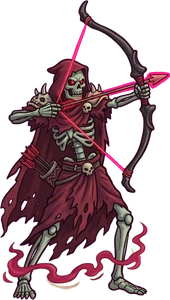
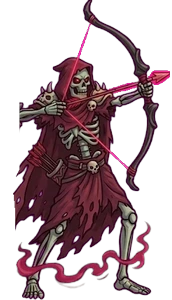
Hayalet okçular 5 pozla atar (bekleme, ok takma, yarım ve tam germe, bırakma; Gemini, okcu_poz_isle.py ortak ölçek ve ayak hizası)

diff --git a/sinir-kalesi/js/game.js b/sinir-kalesi/js/game.js
@@ -5455,7 +5455,8 @@ const XBOW_T = {
 const MEN = {
   base: { pre: 'unit_xbow', pose: '_aim', aim: 0.3, kick: 0.16, hold: 0.55, tip: [0.99, 0.24], n: (t) => t.lvl + 1, col: '140,255,150', spd: 720, arc: 0.06 },
   fan:  { pre: 'unit_ghostxbow', pose: '_aim', aim: 0.46, kick: 0.3, hold: 0.85, tip: [0.99, 0.24], n: () => 2, col: '255,80,90', spd: 820, arc: 0.035, heavy: true },
-  bow:  { pre: 'unit_ghostarcher', pose: '_draw', aim: 0.4, kick: 0.12, hold: 0.32, tip: [0.95, 0.27], n: () => 3, col: '255,90,130', spd: 420, arc: 0.26, bow: true },
+  bow:  { pre: 'unit_ghostarcher', pose: '_draw', aim: 0.42, kick: 0.12, hold: 0.32, tip: [0.98, 0.237], n: () => 3, col: '255,90,130', spd: 420, arc: 0.26, bow: true,
+    seq: [[0.3, '_nock'], [0.62, '_half'], [1, '_draw']], rel: 0.26 }, // yay germe kareleri (Gemini 5 poz, varliklar/okcu_poz_isle.py): ok takma → yarım → tam germe; bırakınca _rel
 };
 const menOf = (t) => MEN[t.spec === 'fan' || t.spec === 'bow' ? t.spec : 'base'];
 const xbowCfg = (t) => XBOW_T[t.spec ? 'tower_archer_fan' : xbowTowerName(t.lvl)];
@@ -5530,15 +5531,17 @@ function drawXbowMen(t, ts, redraw) {
   for (const a of A.slice().sort((p, q) => p.d - q.d)) { // arkadaki önce
     const f = xbowFoot(t, ts, a), up = a.kickT > -M.hold;
     if (ghost) { ctx.save(); ctx.globalCompositeOperation = 'lighter'; glow(ctx, f.x, f.y - h * 0.15, h * 0.45, '255,60,80', 0.2 + (up ? 0.12 : 0)); ctx.restore(); }
-    const im = spr(up ? pre + M.pose : pre); if (!im) continue;
+    const rise = a.aimT > 0 ? (1 - a.aimT / M.aim) : 1; // nişana kalkış / yay germe (0..1)
+    let pose = up ? M.pose : '';
+    if (M.seq && up) pose = a.aimT > 0 ? M.seq.find(q => rise <= q[0])[1] : M.kick - a.kickT < M.rel ? '_rel' : ''; // okçu: germe sırası, bırakınca kısa bir an _rel, sonra yay iner
+    const im = spr(pre + pose) || spr(up ? pre + M.pose : pre); if (!im) continue;
     ctx.save(); ctx.translate(f.x, f.y); ctx.scale(a.face, 1);
     const bob = a.walking ? Math.abs(Math.sin(a.anim * 9)) * h * 0.04 : Math.sin(a.anim * 2) * h * 0.012; // yürürken sekme, dururken nefes
-    const rise = a.aimT > 0 ? (1 - a.aimT / M.aim) : 1; // nişana kalkış / yay germe (0..1)
     const kk = a.aimT <= 0 && a.kickT > 0 ? a.kickT / M.kick : 0; // bırakınca geri tepme (geri ve yukarı)
     let lean = a.walking ? Math.sin(a.anim * 9) * 0.04 : up ? (1 - rise) * 0.12 - kk * 0.1 : 0, sx = 1, sy = 1, back = 0;
-    if (M.bow && up) { // okçu: yay gerilirken gövde geriye yaslanır ve hafifçe gerilir, bırakınca ileri sekip yerine oturur
-      const tense = a.aimT > 0 ? rise * rise : 0;
-      lean = (1 - rise) * 0.1 - tense * 0.05 + kk * 0.06; back = tense * h * 0.025 - kk * h * 0.03; sx = 1 - tense * 0.025; sy = 1 + tense * 0.015;
+    if (M.bow && up) { // okçu: pozlar germeyi gösterir; üstüne tam gerilimde hafif titreme, bırakınca küçük ileri sekme
+      const tense = a.aimT > 0 ? Math.max(0, rise - 0.62) / 0.38 : 0;
+      lean = -tense * 0.02 + kk * 0.03; back = Math.sin(a.anim * 40) * tense * h * 0.004 - kk * h * 0.02;
     }
     if (M.heavy && up && kk > 0) back = h * 0.11 * kk; // ağır arbalet sert teper
     ctx.translate(-h * 0.07 * kk * (M.bow ? 0 : 1) - back, -bob); ctx.rotate(lean); ctx.scale(sx, sy); drawSprite(ctx, im, 0, 0, h * im.width / im.height);

diff --git a/sinir-kalesi/index.html b/sinir-kalesi/index.html
@@ -11,7 +11,7 @@
 <canvas id="game" aria-label="Sınır Kalesi oyun alanı"></canvas>
 <script>
   // Sürüm damgası: her yayında artırılır; tarayıcı eski önbellek kopyasını kullanmaz (js ve görseller).
-  window.SURUM = '285';
+  window.SURUM = '286';
   // dil: kayıtlı seçim ya da cihaz dili; tr/en dışındakiler için çeviri sözlüğü dil.js'ten önce yüklenir
   window.__dilYukle = (function () {
     var l = null; try { l = localStorage.getItem('sinirKalesi.lang'); } catch (e) {}

diff --git a/sinir-kalesi/yayin.html b/sinir-kalesi/yayin.html
@@ -11,7 +11,7 @@
 <canvas id="game" aria-label="Sınır Kalesi oyun alanı"></canvas>
 <script>
   // Sürüm damgası: her yayında artırılır; tarayıcı eski önbellek kopyasını kullanmaz (js ve görseller).
-  window.SURUM = '285';
+  window.SURUM = '286';
   // dil: kayıtlı seçim ya da cihaz dili; tr/en dışındakiler için çeviri sözlüğü dil.js'ten önce yüklenir
   window.__dilYukle = (function () {
     var l = null; try { l = localStorage.getItem('sinirKalesi.lang'); } catch (e) {}

diff --git a/varliklar/okcu_poz_isle.py b/varliklar/okcu_poz_isle.py
@@ -1,0 +1,48 @@
+"""Hayalet okçu poz sayfası (Gemini, 5 poz yan yana, magenta zemin; varliklar/ham/nm_hayalet_okcu_pozlari.webp) -> oyun kareleri.
+Pozlar yay/kirişle birbirine değdiği için elle ölçülmüş kesim çizgileriyle ayrılır (CUTS: her sınır için (x, y) kırık çizgisi).
+Hepsi ortak ölçekle 300 px boya, ayak ortası tuvalin ortasına gelecek şekilde aynı tuvale konur (kareler arasında karakter kaymaz).
+Çıktı: img/unit_ghostarcher (1 bekleme), _nock (2 ok takma), _half (3 yarım germe), _draw (4 tam germe), _rel (5 bırakma) + meta.json + manifest."""
+import json, os, sys
+import numpy as np
+from PIL import Image, ImageDraw
+from scipy import ndimage
+H0 = os.path.dirname(os.path.abspath(__file__)); sys.path.insert(0, H0)
+from anim_isle import remove_magenta
+IMG = os.path.join(H0, '..', 'sinir-kalesi', 'img')
+src = np.array(Image.open(os.path.join(H0, 'ham', 'nm_hayalet_okcu_pozlari.webp')).convert('RGB'))
+A = remove_magenta(src); Hh, Ww = A.shape[:2]
+CUTS = [[(226, 0), (226, 262), (204, 275), (204, 434)],
+        [(402, 0), (402, 190), (409, 210), (409, 262), (398, 290), (396, 434)],
+        [(617, 0), (617, 125), (592, 140), (592, 240), (582, 262), (586, 300), (586, 434)],
+        [(806, 0), (806, 434)]]
+def region(i):
+    m = Image.new('L', (Ww, Hh), 0); d = ImageDraw.Draw(m)
+    left = CUTS[i - 1] if i > 0 else [(0, 0), (0, Hh)]; right = CUTS[i] if i < len(CUTS) else [(Ww, 0), (Ww, Hh)]
+    d.polygon(left + right[::-1], fill=255); return np.array(m) > 0
+NAMES = ['unit_ghostarcher', 'unit_ghostarcher_nock', 'unit_ghostarcher_half', 'unit_ghostarcher_draw', 'unit_ghostarcher_rel']
+polys, boxes = [], []
+for i in range(5):
+    P = A.copy(); P[~region(i), 3] = 0
+    a = P[..., 3] > 40; lab, n = ndimage.label(a); sz = ndimage.sum(a, lab, range(1, n + 1))
+    main = lab == (int(np.argmax(sz)) + 1); near = ndimage.binary_dilation(main, iterations=3)  # komşu pozdan kalan kopuk kırıntılar atılır
+    keep = np.isin(lab, [k + 1 for k in range(n) if (near & (lab == k + 1)).any()]); P[~ndimage.binary_dilation(keep, iterations=2), 3] = 0
+    ys, xs = np.nonzero(P[..., 3] > 40); y0, y1, x0, x1 = ys.min(), ys.max() + 1, xs.min(), xs.max() + 1
+    feet = (P[y1 - 40:y1, :, 3] > 100) & (P[y1 - 40:y1, :, 1] > 110);  # kemik ayaklar (kızıl sis değil)
+    fx = np.nonzero(feet.any(0))[0]; foot = (fx.min() + fx.max()) / 2
+    polys.append(P); boxes.append((x0, y0, x1, y1, foot))
+S = 300 / max(b[3] - b[1] for b in boxes)  # en uzun poz 300 px
+half = max(max(b[4] - b[0], b[2] - b[4]) for b in boxes)
+cw, ch = int(np.ceil(2 * half * S)) + 4, 300
+meta = json.load(open(os.path.join(IMG, 'meta.json'))); mf = json.load(open(os.path.join(IMG, 'manifest.json')))
+for P, (x0, y0, x1, y1, foot), nm in zip(polys, boxes, NAMES):
+    crop = Image.fromarray(P[y0:y1, x0:x1]); w, h = round((x1 - x0) * S), round((y1 - y0) * S)
+    crop = crop.resize((w, h), Image.LANCZOS)
+    can = Image.new('RGBA', (cw, ch), (0, 0, 0, 0)); can.paste(crop, (round(cw / 2 - (foot - x0) * S), ch - h), crop)
+    can.save(os.path.join(IMG, nm + '.webp'), 'WEBP', quality=92); meta[nm] = [cw, ch]
+    if nm + '.webp' not in mf: mf.append(nm + '.webp')
+    print(nm, (x0, y0, x1, y1), round(foot))
+json.dump(meta, open(os.path.join(IMG, 'meta.json'), 'w'), separators=(',', ':')); json.dump(mf, open(os.path.join(IMG, 'manifest.json'), 'w'), indent=0)
+# tam germe pozunda ok ucunun yeri (tuval kesri): kızıl ok ucu en sağdaki parlak kırmızı piksel kümesi
+x0, y0, x1, y1, foot = boxes[3]; P = polys[3]; r, g, b, a = [P[..., k].astype(int) for k in range(4)]
+red = (a > 100) & (r > 200) & (g < 120); ys, xs = np.nonzero(red); j = xs.argmax(); tx, ty = xs[j], ys[j]
+print('tip', round((cw / 2 + (tx - foot) * S) / cw, 3), round(1 - (y1 - ty) * S / ch, 3), 'canvas', cw, ch)
